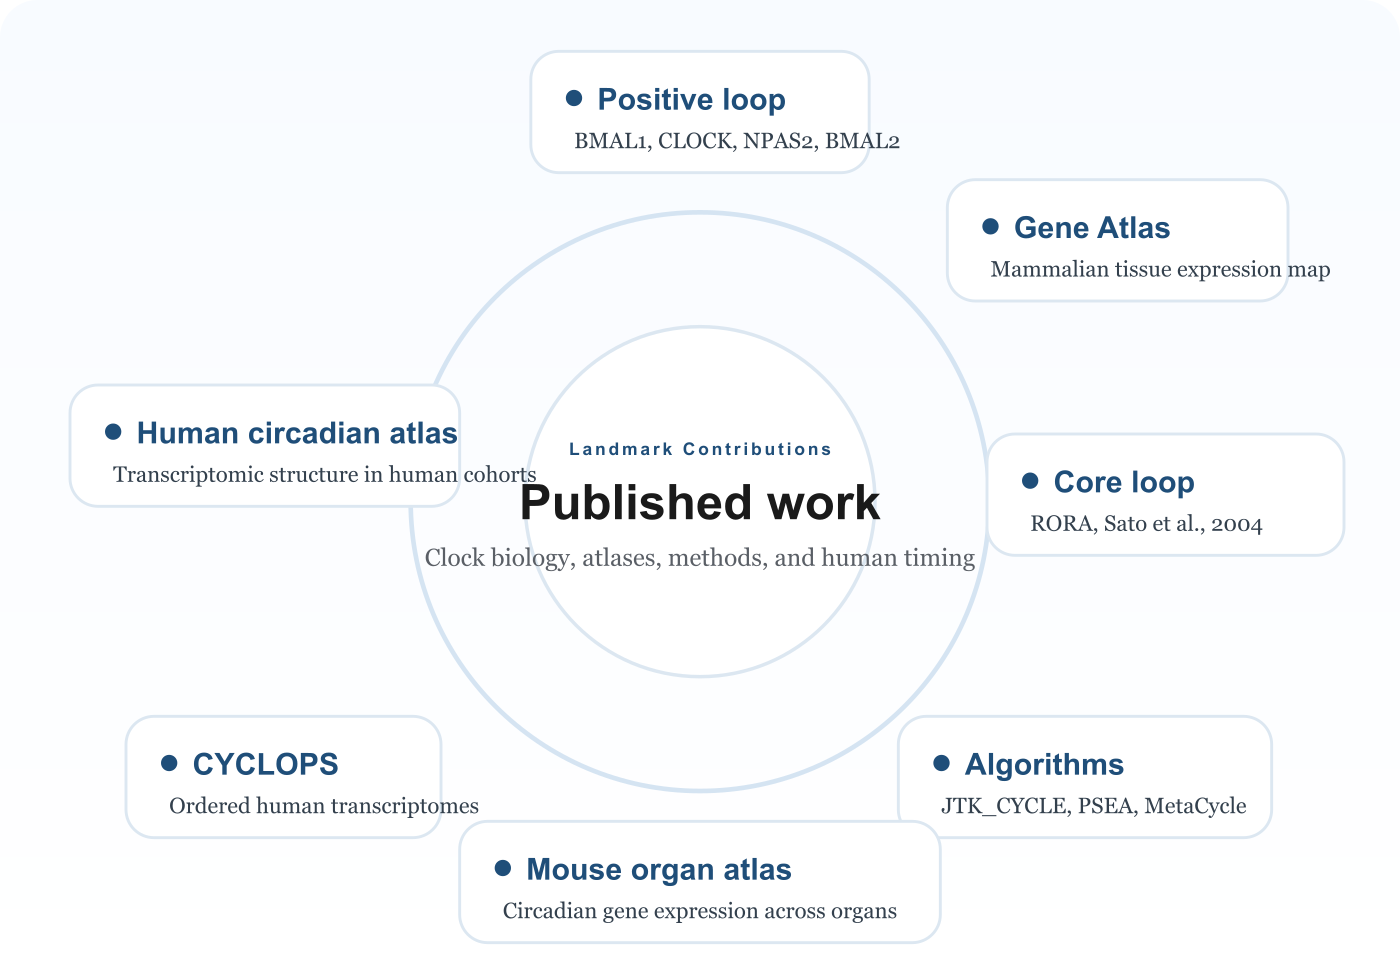
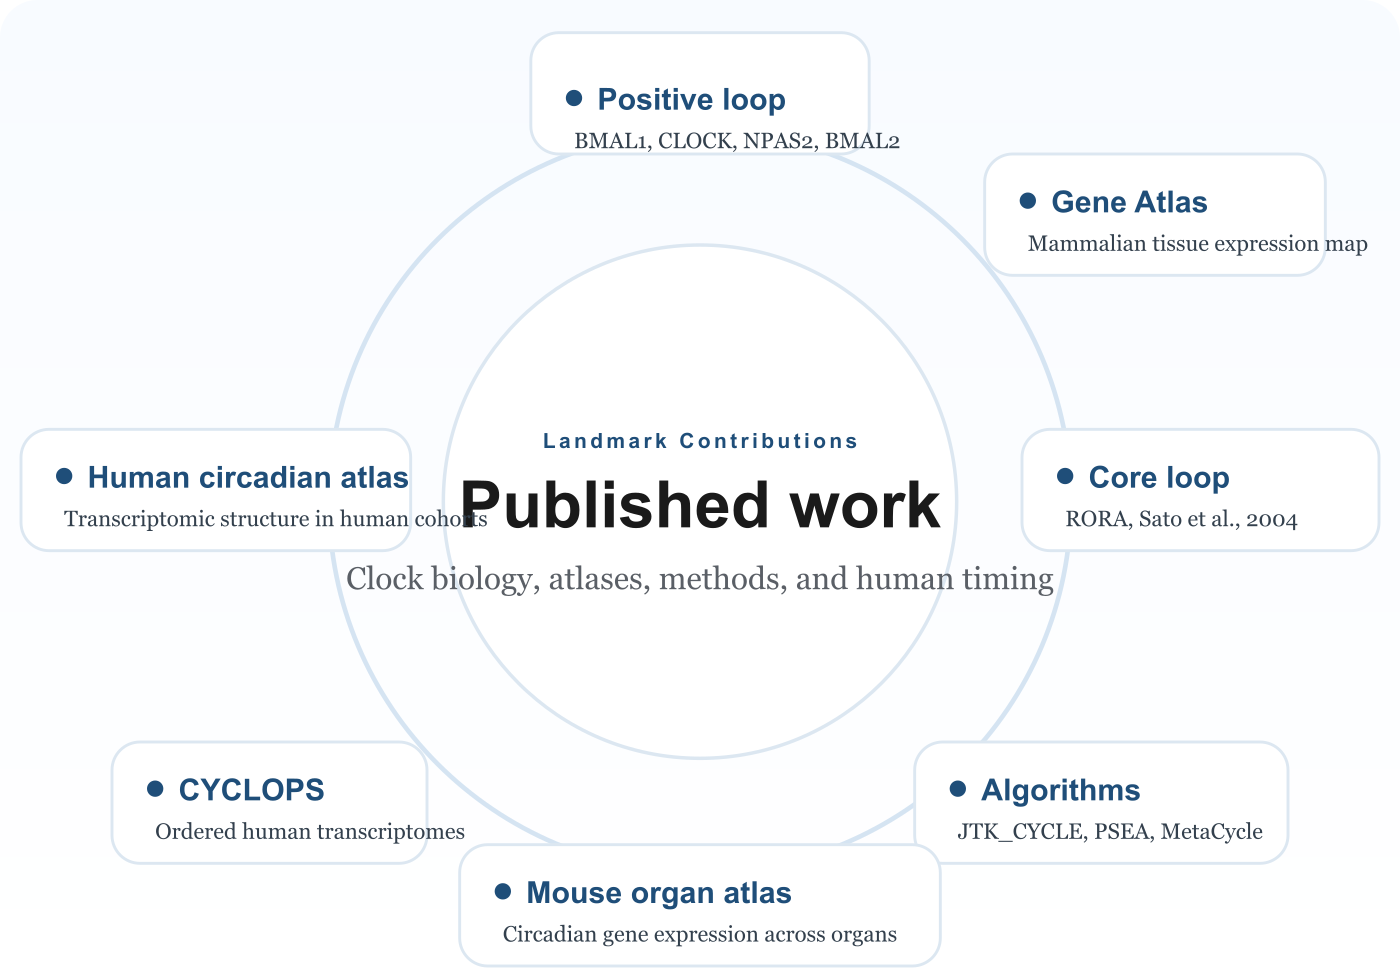
Enlarge center of homepage contributions graphic

diff --git a/index.html b/index.html
@@ -19,14 +19,14 @@ circadian biology, systems biology, and circadian medicine, with
 landmark contributions in molecular clocks, functional genomics,
 algorithms, and public resources.">
   <meta property="og:url" content="https://hogeneschlab.org/">
-  <meta property="og:image" content="https://hogeneschlab.org/assets/images/landmark-contributions-map.png?v=20260311-4">
+  <meta property="og:image" content="https://hogeneschlab.org/assets/images/landmark-contributions-map.png?v=20260311-5">
   <meta name="twitter:card" content="summary_large_image">
   <meta name="twitter:title" content="Hogenesch Lab">
   <meta name="twitter:description" content="Hogenesch Lab studies
 circadian biology, systems biology, and circadian medicine, with
 landmark contributions in molecular clocks, functional genomics,
 algorithms, and public resources.">
-  <meta name="twitter:image" content="https://hogeneschlab.org/assets/images/landmark-contributions-map.png?v=20260311-4">
+  <meta name="twitter:image" content="https://hogeneschlab.org/assets/images/landmark-contributions-map.png?v=20260311-5">
   <link rel="stylesheet" href="styles.css?v=20260310-1">
 </head>
 <body>
@@ -126,7 +126,7 @@ Creation of CircaDB as a public circadian gene-expression resource.
 </ul>
 </div>
 <figure class="feature-figure">
-<img src="assets/images/landmark-contributions-map.svg?v=20260311-4" alt="Conceptual map showing the lab's landmark contributions across clock biology, atlases, algorithms, human ordering, and public resources." />
+<img src="assets/images/landmark-contributions-map.svg?v=20260311-5" alt="Conceptual map showing the lab's landmark contributions across clock biology, atlases, algorithms, human ordering, and public resources." />
 <figcaption>
 A neutral view of the lab’s major contributions across molecular clock
 biology, atlas-scale genomics, computational methods, and public

diff --git a/page-template.html b/page-template.html
@@ -13,11 +13,11 @@
   <meta property="og:title" content="$if(seo_title)$$seo_title$$else$$title$ | Hogenesch Lab$endif$">
   <meta property="og:description" content="$if(description)$$description$$else$Hogenesch Lab studies circadian biology, systems biology, and circadian medicine across clocks, transcriptomes, and public resources.$endif$">
   <meta property="og:url" content="$if(canonical)$$canonical$$else$https://hogeneschlab.org$permalink$$endif$">
-  <meta property="og:image" content="https://hogeneschlab.org/assets/images/landmark-contributions-map.png?v=20260311-4">
+  <meta property="og:image" content="https://hogeneschlab.org/assets/images/landmark-contributions-map.png?v=20260311-5">
   <meta name="twitter:card" content="summary_large_image">
   <meta name="twitter:title" content="$if(seo_title)$$seo_title$$else$$title$ | Hogenesch Lab$endif$">
   <meta name="twitter:description" content="$if(description)$$description$$else$Hogenesch Lab studies circadian biology, systems biology, and circadian medicine across clocks, transcriptomes, and public resources.$endif$">
-  <meta name="twitter:image" content="https://hogeneschlab.org/assets/images/landmark-contributions-map.png?v=20260311-4">
+  <meta name="twitter:image" content="https://hogeneschlab.org/assets/images/landmark-contributions-map.png?v=20260311-5">
   <link rel="stylesheet" href="styles.css?v=20260310-1">
 </head>
 <body>

diff --git a/index.md b/index.md
@@ -67,7 +67,7 @@ description: Hogenesch Lab studies circadian biology, systems biology, and circa
 </ul>
 </div>
 <figure class="feature-figure">
-<img src="assets/images/landmark-contributions-map.svg?v=20260311-4" alt="Conceptual map showing the lab's landmark contributions across clock biology, atlases, algorithms, human ordering, and public resources." />
+<img src="assets/images/landmark-contributions-map.svg?v=20260311-5" alt="Conceptual map showing the lab's landmark contributions across clock biology, atlases, algorithms, human ordering, and public resources." />
 <figcaption>A neutral view of the lab's major contributions across molecular clock biology, atlas-scale genomics, computational methods, and public resources.</figcaption>
 </figure>
 </div>
